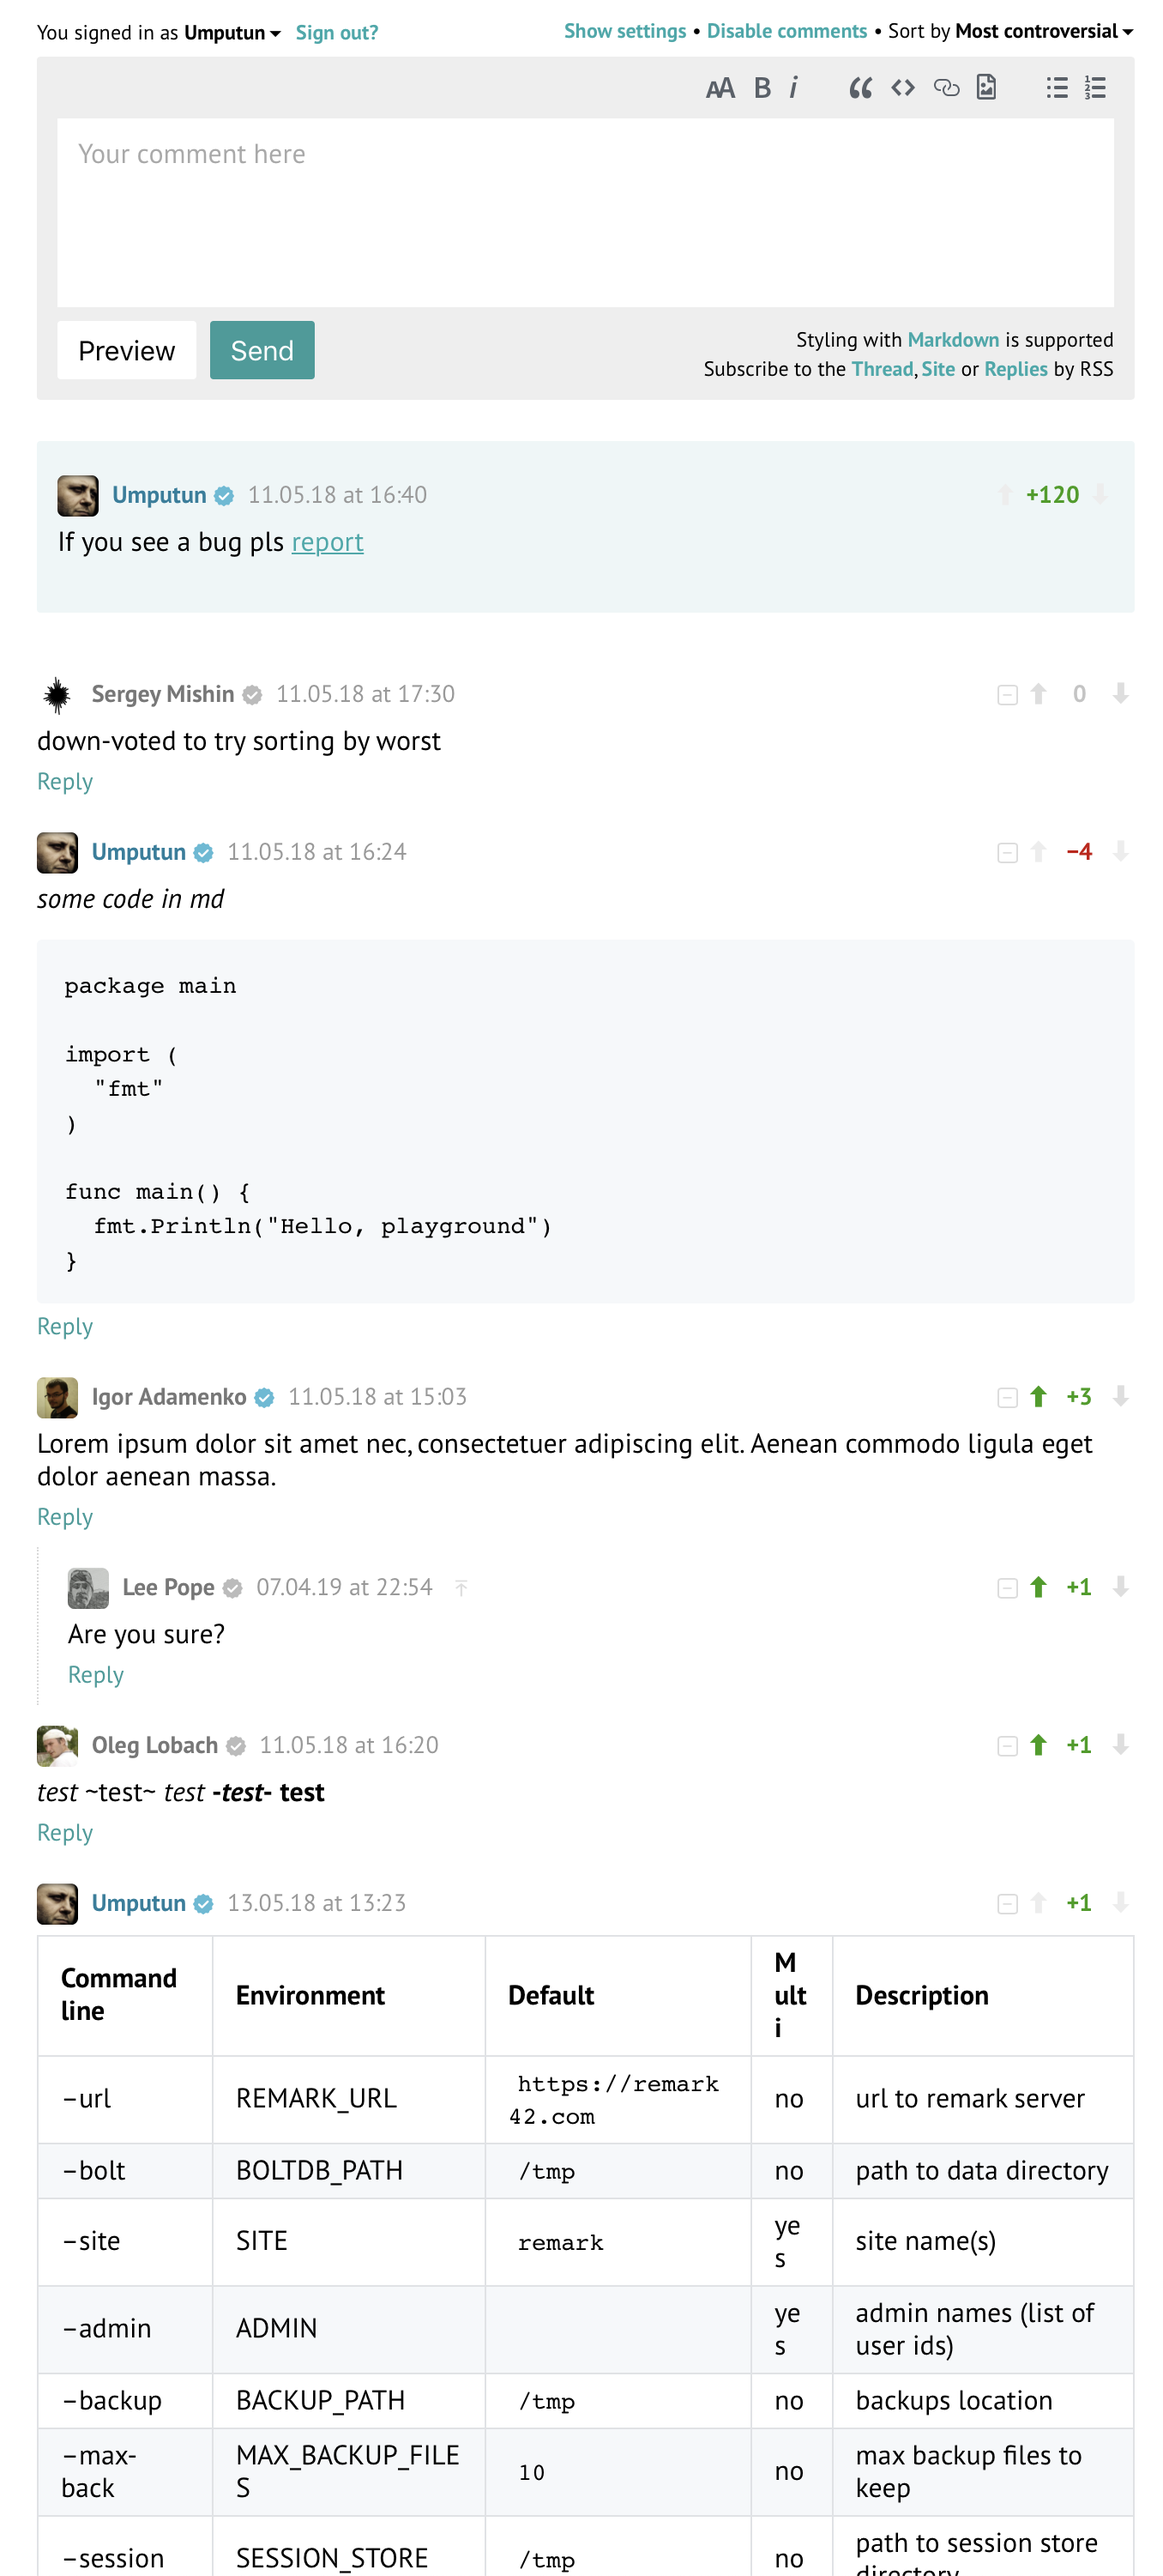
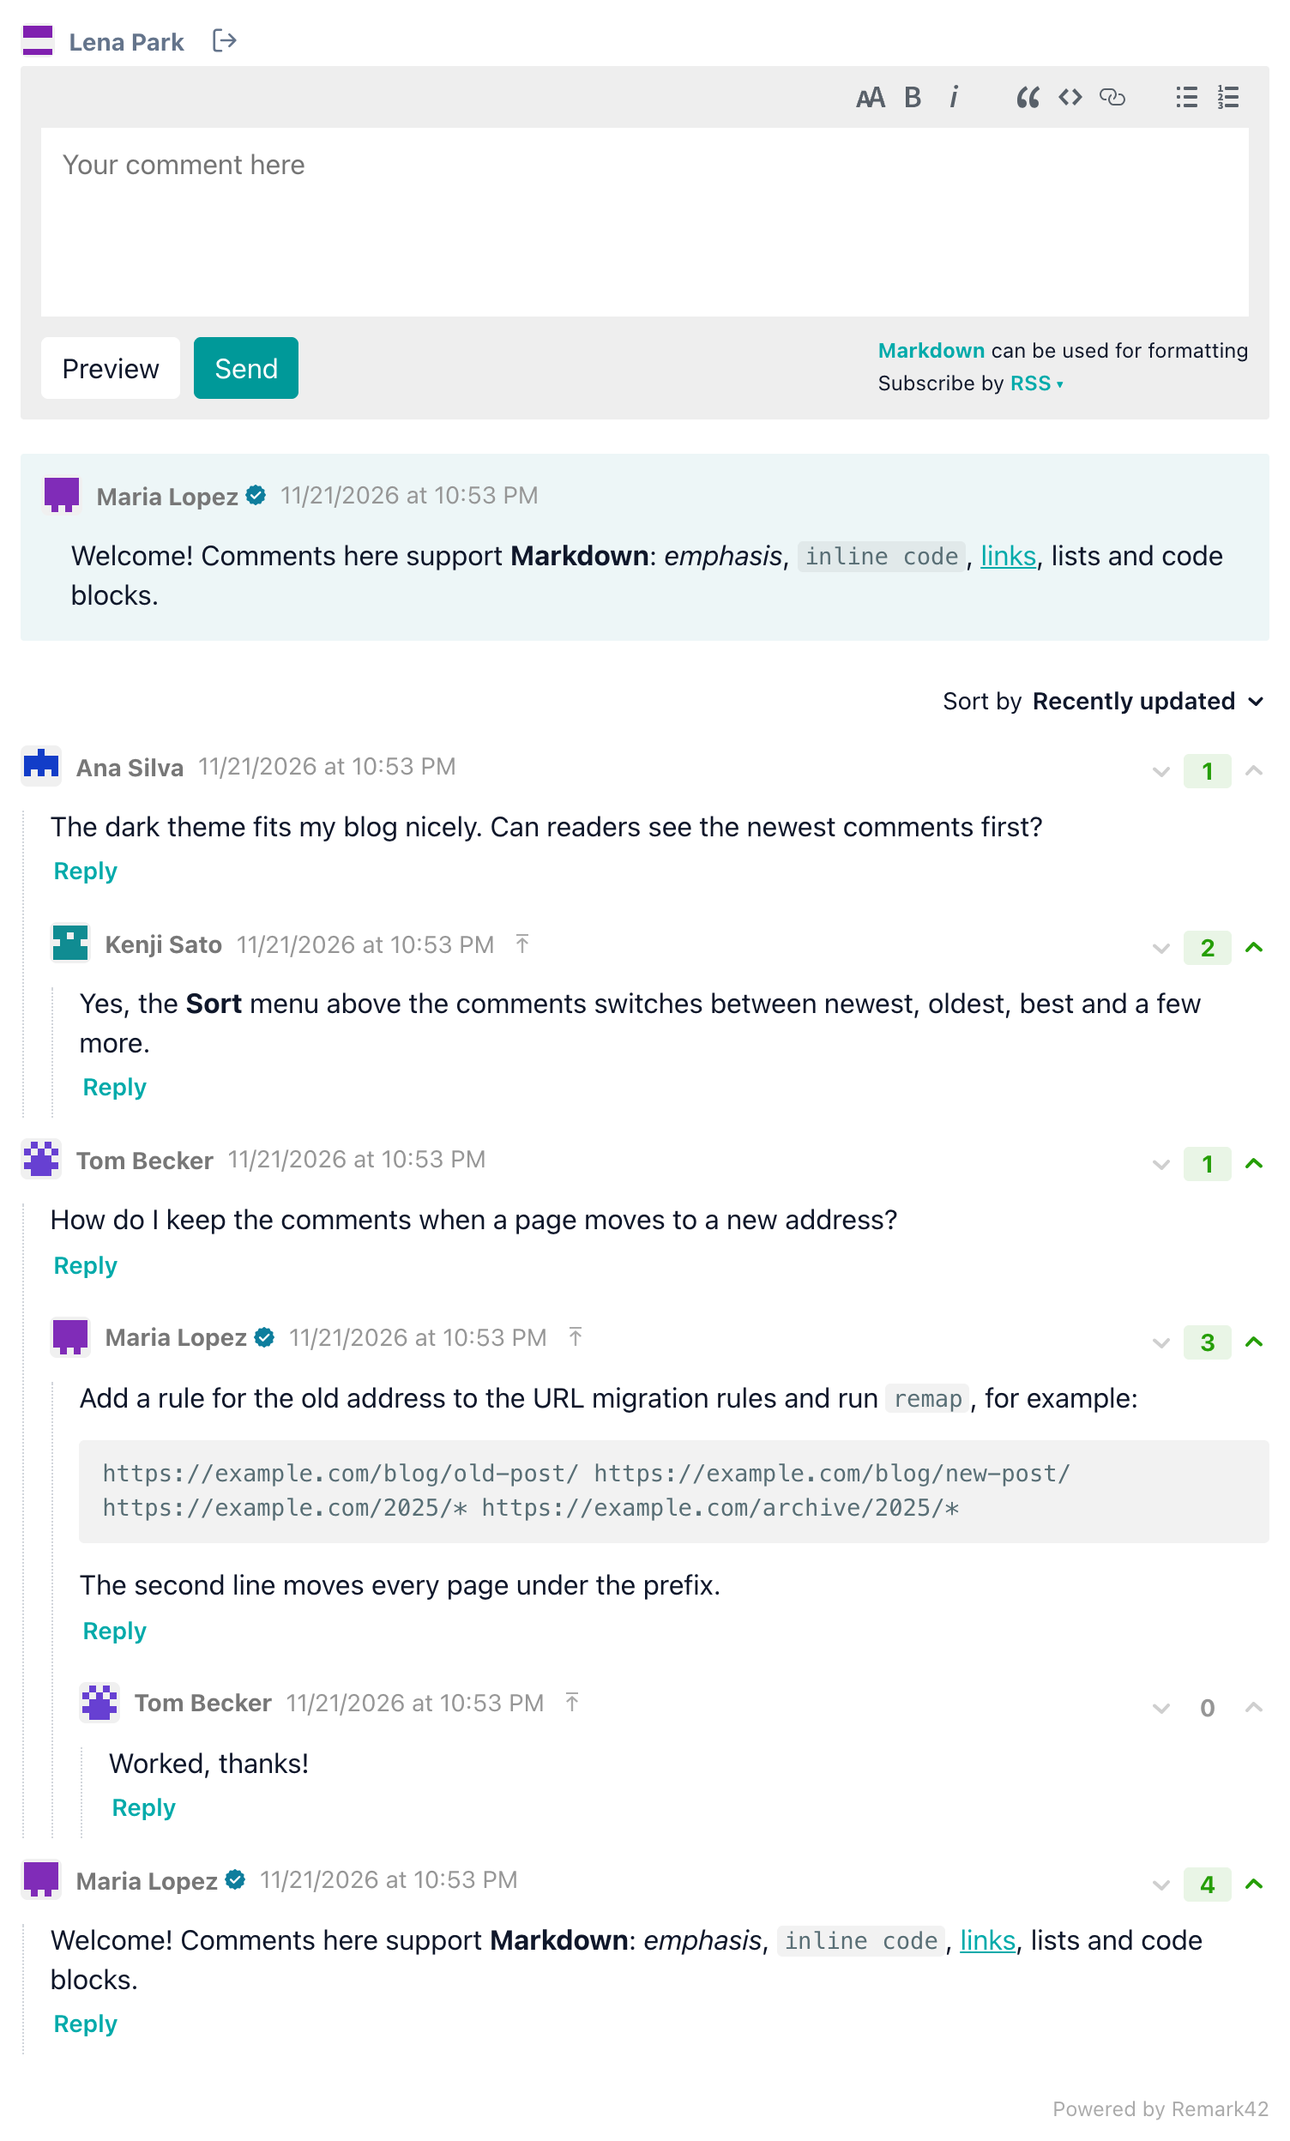
Bring the README and home page feature lists in line with the server
The lists left out Commento as an import source and FreeBSD, which the
release builds include, called the themes "white and dark" where the
option says light, and the home page left out Discord sign-in. The
README named nginx-le for automatic SSL, which the site has no page
for; both lists now name Reproxy and link to its manual.

The home page's deletion bullet now says that the pictures in the
deleted comments go too, except those another comment on the page
shows, and that votes stay, as the privacy policy states.

The README screenshot showed the 2018 widget with flags that no longer
exist and is replaced with the current one. The django-remark42 link
points at the account the repository moved to.

diff --git a/site/content/_index.md b/site/content/_index.md
@@ -6,11 +6,11 @@ title: Remark42 – Privacy-focused lightweight commenting engine
 
 Remark42 allows you to have a self-hosted, lightweight, and simple (yet functional) comment engine, which doesn't spy on users. It can be embedded into blogs, articles or any other place where readers add comments.
 
-- Social login via Google, Facebook, Microsoft, GitHub, Apple, X (Twitter), Yandex, Patreon, Telegram and custom OAuth2 providers
+- Social login via Google, Facebook, Microsoft, GitHub, Apple, X (Twitter), Yandex, Patreon, Discord, Telegram and custom OAuth2 providers
 - Login via email
 - Optional anonymous access
 - Multi-level nested comments with both tree and plain presentations
-- Import from Disqus and WordPress
+- Import from Disqus, WordPress and Commento
 - Markdown support with friendly formatter toolbar
 - Moderators can remove comments and block users
 - Voting, pinning and verification system
@@ -23,10 +23,10 @@ Remark42 allows you to have a self-hosted, lightweight, and simple (yet function
 - Export data to JSON with automatic backups
 - No external databases, everything embedded in a single data file
 - Fully dockerized and can be deployed in a single command
-- A self-contained executable can be deployed directly to Linux, Windows and macOS
-- Clean, lightweight and customizable UI with white and dark themes
+- A self-contained executable can be deployed directly to Linux, Windows, macOS and FreeBSD
+- Clean, lightweight and customizable UI with light and dark themes
 - Multi-site mode from a single instance
-- Integration with automatic SSL (direct or via reproxy)
+- Integration with automatic SSL (direct or via [Reproxy](/docs/manuals/reproxy/))
 - Privacy-focused
 
 ## Privacy
@@ -40,7 +40,7 @@ Remark42 is designed to store as little personal information as it can:
 - Login uses an HttpOnly JWT cookie, marked Secure when Remark42 runs on HTTPS, and an XSRF-TOKEN cookie, a random ID that protects against CSRF.
 - There is no cross-site login: every Remark42 instance has its own sign-in and its own data, and instances exchange nothing. The same account gets the same public user ID on each, so public comments can be matched across sites.
 - A signed-in user can download their comments as a gz file through the API.
-- A user can request deletion of their data. Once the site administrator confirms the request, their comments, notification addresses and avatar are removed.
+- A user can request deletion of their data. Once the site administrator confirms the request, their comments, notification addresses and avatar are removed, and so are the pictures those comments show, unless another comment on the same page shows them too. The votes they gave on other comments stay, kept under their user ID.
 
 What a site running Remark42 does with this data is up to its operator: the [privacy section of the installation guide](/docs/getting-started/installation/#privacy) lists the settings that matter. The [privacy policy](/privacy/) describes remark42.com itself.
 

diff --git a/README.md b/README.md
@@ -6,7 +6,7 @@ Remark42 is a self-hosted, lightweight and simple (yet functional) comment engin
 * Login via email
 * Optional anonymous access
 * Multi-level nested comments with both tree and plain presentations
-* Import from Disqus and WordPress
+* Import from Disqus, WordPress and Commento
 * Markdown support with friendly formatter toolbar
 * Moderator can remove comments and block users
 * Voting, pinning and verification system
@@ -19,10 +19,10 @@ Remark42 is a self-hosted, lightweight and simple (yet functional) comment engin
 * Export data to JSON with automatic backups
 * No external databases, everything embedded in a single data file
 * Fully dockerized and can be deployed in a single command
-* Self-contained executable can be deployed directly to Linux, Windows and macOS
-* Clean, lightweight and customizable UI with white and dark themes
+* Self-contained executable can be deployed directly to Linux, Windows, macOS and FreeBSD
+* Clean, lightweight and customizable UI with light and dark themes
 * Multi-site mode from a single instance
-* Integration with automatic SSL (direct and via [nginx-le](https://github.com/nginx-le/nginx-le))
+* Integration with automatic SSL (direct or via [Reproxy](https://remark42.com/docs/manuals/reproxy/))
 * [Privacy focused](https://remark42.com/#privacy)
 
 [Demo site](https://remark42.com/demo/) available with all authentication methods, including email auth and anonymous access.
@@ -48,4 +48,4 @@ If you are interested in adding a new localization please check [these docs](htt
 ## Related projects
 
 * [A Helm chart for Remark42 on Kubernetes](https://github.com/groundhog2k/helm-charts/tree/master/charts/remark42)
-* [django-remark42](https://github.com/andrewp-as-is/django-remark42.py)
+* [django-remark42](https://github.com/petrochenkov-ak/django-remark42.py)
